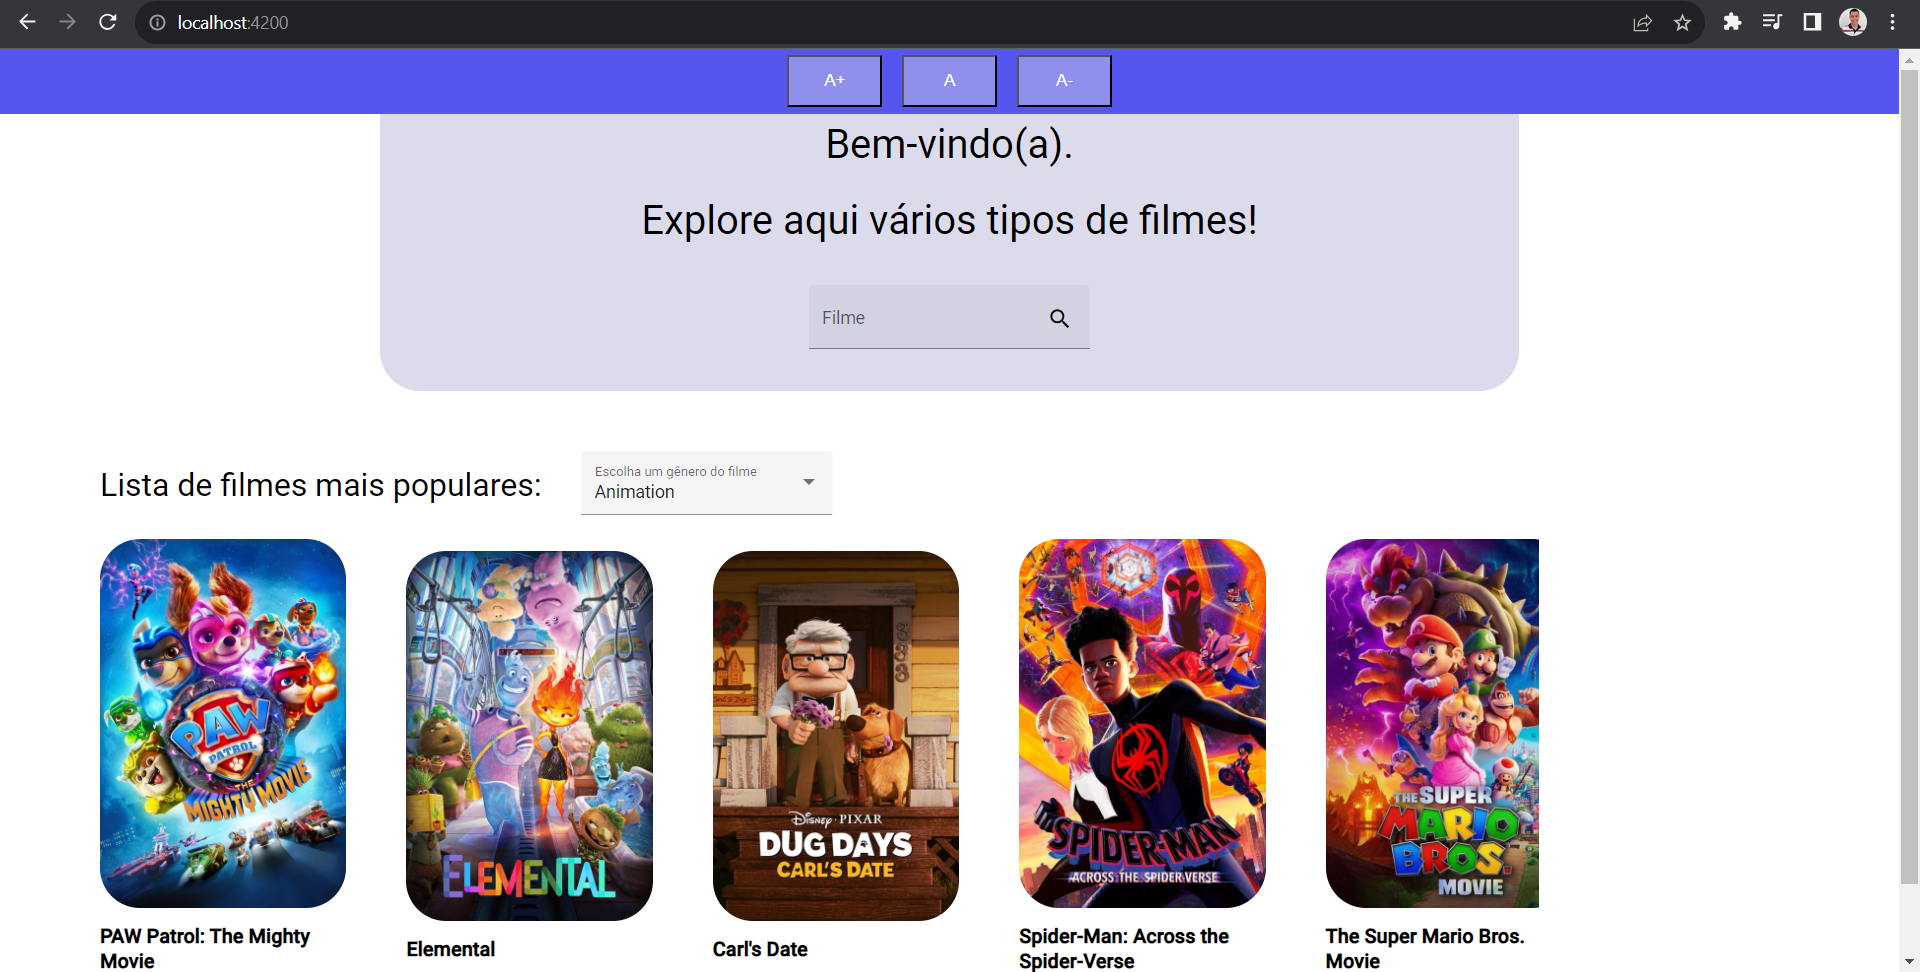
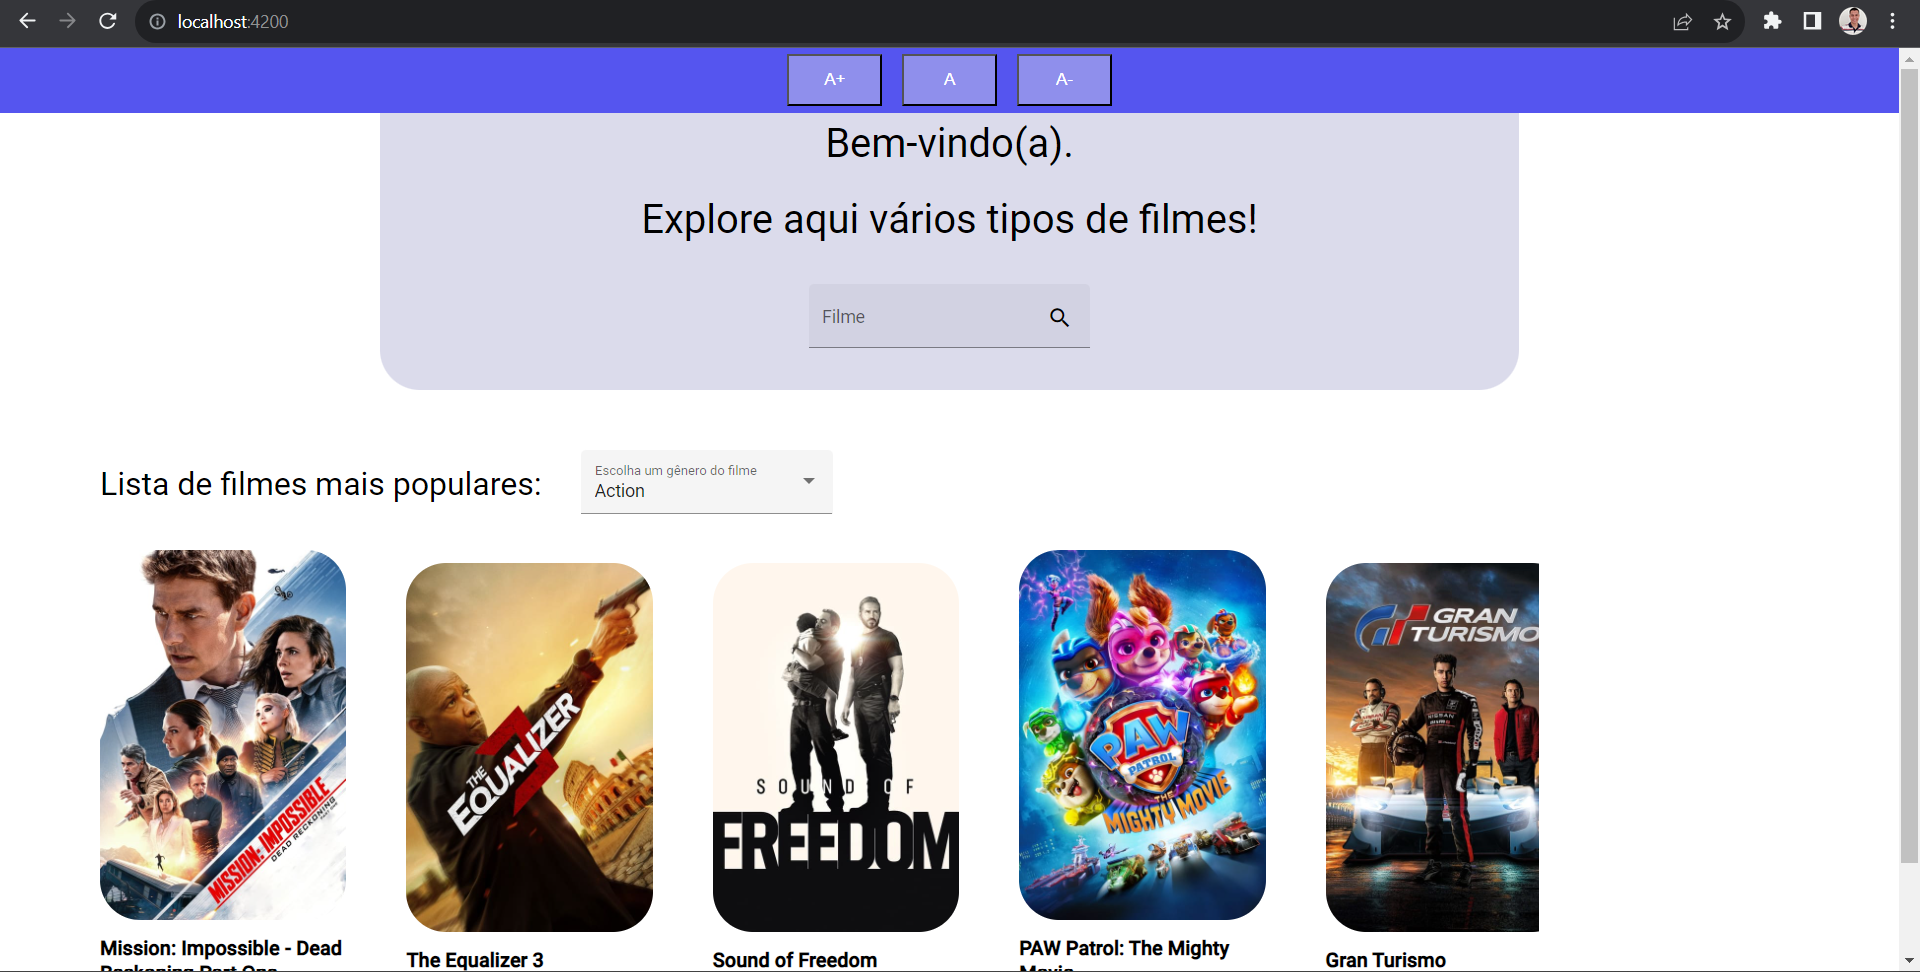
atualizações na interface e no readme

diff --git a/src/app/views/movies/movies-list/movies-list.component.ts b/src/app/views/movies/movies-list/movies-list.component.ts
@@ -14,20 +14,17 @@ export class MoviesListComponent implements OnInit {
 
   popularMovies?: Movies;
   genres?: Genre[];
+  actionGenreId = 28;
 
   constructor(private moviesService: MoviesService) { }
 
   ngOnInit(): void {
-    this.moviesService.getPopularMovies()
-    .pipe(take(1)) //nesta linha o unsubscribe é feito após a req. http
-    .subscribe(
-      (data) => this.popularMovies = data,
-    );
+    this.filterMoviesByGenre(this.actionGenreId);
 
     this.moviesService.getGenresOfMovies()
     .pipe(take(1))
     .subscribe(
-      (data) => this.genres = data.genres,
+      (data) => this.genres = data.genres
     );
   }
   

diff --git a/src/app/views/movies/movies-list/movies-list.component.html b/src/app/views/movies/movies-list/movies-list.component.html
@@ -3,10 +3,7 @@
         <h1>Lista de filmes mais populares:</h1>
         <mat-form-field appearance="fill">
             <mat-label>Escolha um gênero do filme</mat-label>
-            <mat-select (selectionChange)="filterMoviesByGenre($event.value)">
-                <mat-option value="Aleatório">
-                    Aleatório
-                </mat-option>
+            <mat-select value={{actionGenreId}} (selectionChange)="filterMoviesByGenre($event.value)">
                 <mat-option *ngFor="let genre of genres" value={{genre.id}}>
                     {{genre.name}}
                 </mat-option>

diff --git a/src/app/services/movies.service.ts b/src/app/services/movies.service.ts
@@ -15,13 +15,6 @@ export class MoviesService {
 
   constructor(private httpClient: HttpClient) {}
 
-  getPopularMovies(): Observable<Movies> {
-    return this.httpClient.get<Movies>(
-      this.baseUrl + 'movie/popular',
-      {params: this.queryParams},
-    );
-  }
-
   getMoviesByGenre(genreId: number): Observable<Movies> {
     return this.httpClient.get<Movies>(
       this.baseUrl + `discover/movie?with_genres=${genreId}`,
